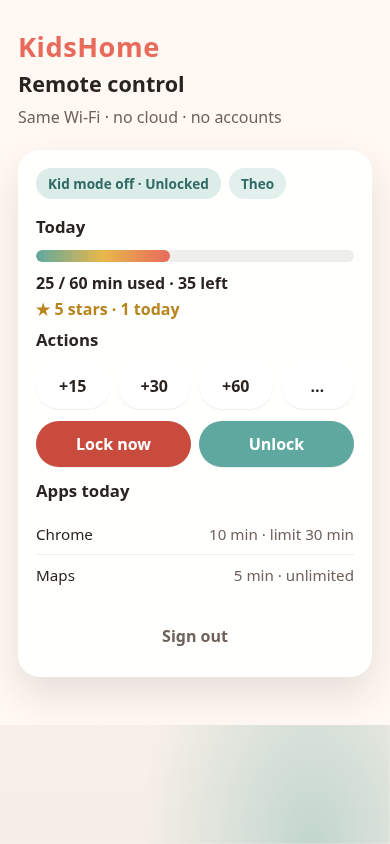
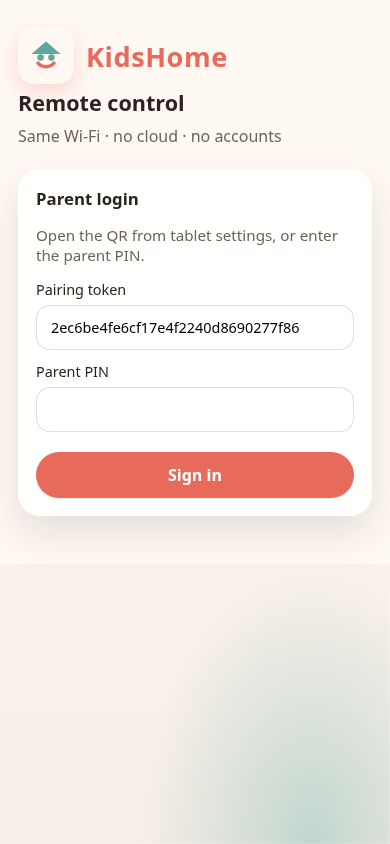
Fix remote bonus time math, brand lock mark, and pt-BR screenshots
Bonus minutes now extend the daily allowance (25/60 +30 → 25/90, 65 left)
with matching progress bar and unit tests. Lock screen uses the KidsHome
house mark; remote page ships mark.svg. Adds pt-BR screenshot set including
kid-mode locked phone page; rebased onto App Studio 42 branding from #6.

diff --git a/app/src/main/assets/remote/app.js b/app/src/main/assets/remote/app.js
@@ -78,7 +78,15 @@
     }
   };
 
+  function queryParam(name) {
+    var m = new RegExp("[?&]" + name + "=([^&]+)").exec(location.search || "");
+    return m ? decodeURIComponent(m[1]) : "";
+  }
+
   function pickLang() {
+    var forced = (queryParam("lang") || "").toLowerCase();
+    if (forced.indexOf("pt") === 0) return "pt-BR";
+    if (forced.indexOf("en") === 0) return "en";
     var lang = (navigator.language || "en").toLowerCase();
     if (lang.indexOf("pt") === 0) return "pt-BR";
     return "en";
@@ -176,6 +184,7 @@
       .replace("%total%", String(state.starsTotal))
       .replace("%today%", String(state.starsToday));
 
+    // dailyLimitMinutes is today's total allowance (base limit + bonus).
     var pct = 0;
     if (state.screenTimeEnabled && state.dailyLimitMinutes > 0) {
       pct = Math.min(100, Math.round((state.usedMinutes / state.dailyLimitMinutes) * 100));

diff --git a/app/src/main/assets/remote/style.css b/app/src/main/assets/remote/style.css
@@ -44,13 +44,25 @@ html, body {
   padding: 28px 18px 48px;
 }
 
+.brand-row {
+  display: flex;
+  align-items: center;
+  gap: 12px;
+  animation: rise 0.7s ease both;
+}
+.brand-logo {
+  width: 56px;
+  height: 56px;
+  border-radius: 16px;
+  box-shadow: 0 8px 20px rgba(232, 106, 91, 0.22);
+  background: #FFF8F3;
+}
 .brand-mark {
   margin: 0;
   font-size: 1.7rem;
   font-weight: 800;
   letter-spacing: 0.02em;
   color: var(--coral);
-  animation: rise 0.7s ease both;
 }
 
 .brand h1 {

diff --git a/app/src/main/assets/remote/index.html b/app/src/main/assets/remote/index.html
@@ -11,7 +11,10 @@
   <div class="bg" aria-hidden="true"></div>
   <main class="shell">
     <header class="brand">
-      <p class="brand-mark">KidsHome</p>
+      <div class="brand-row">
+        <img class="brand-logo" src="/assets/mark.svg" width="56" height="56" alt="KidsHome" />
+        <p class="brand-mark">KidsHome</p>
+      </div>
       <h1 id="title">Remote control</h1>
       <p id="subtitle" class="lede">Same Wi‑Fi · no cloud · no accounts</p>
     </header>

diff --git a/app/src/main/java/io/github/marcelsavegnago/kidshome/RemoteControlBridge.java b/app/src/main/java/io/github/marcelsavegnago/kidshome/RemoteControlBridge.java
@@ -38,12 +38,14 @@ public final class RemoteControlBridge implements RemoteRequestHandler.DeviceBri
 
         long used = Prefs.getUsedMillisToday(app);
         long bonus = Prefs.getBonusMillisToday(app);
-        int limit = Prefs.getDailyLimitMinutes(app);
+        int baseLimit = Prefs.getDailyLimitMinutes(app);
+        long bonusMin = RemoteTimeMath.millisToWholeMinutes(bonus);
+        int effectiveLimit = RemoteTimeMath.effectiveLimitMinutes(baseLimit, bonusMin);
         long remainingMin;
         if (!Prefs.isScreenTimeEnabled(app) || Prefs.isScreenTimeDisabledToday(app)) {
             remainingMin = Long.MAX_VALUE;
         } else {
-            remainingMin = RemoteTimeMath.remainingMinutes(used, bonus, limit);
+            remainingMin = RemoteTimeMath.remainingMinutes(used, bonus, baseLimit);
         }
 
         Map<String, Long> usedMap = Prefs.getAppUsedMillisToday(app);
@@ -80,9 +82,10 @@ public final class RemoteControlBridge implements RemoteRequestHandler.DeviceBri
                 scheduleActive,
                 reasonKey,
                 Prefs.isScreenTimeEnabled(app) && !Prefs.isScreenTimeDisabledToday(app),
-                limit,
-                RemoteTimeMath.effectiveUsedMinutes(used, 0L),
-                bonus / 60_000L,
+                // Parent page shows today's total allowance (base limit + bonus).
+                effectiveLimit,
+                RemoteTimeMath.usedMinutes(used),
+                bonusMin,
                 remainingMin == Long.MAX_VALUE ? -1L : remainingMin,
                 Prefs.getStarsTotal(app),
                 Prefs.getStarsToday(app),

diff --git a/app/src/main/java/io/github/marcelsavegnago/kidshome/RemoteTimeMath.java b/app/src/main/java/io/github/marcelsavegnago/kidshome/RemoteTimeMath.java
@@ -30,13 +30,31 @@ public final class RemoteTimeMath {
     }
 
     /**
-     * Effective used minutes after subtracting bonus (never negative).
+     * Raw used minutes (wall-clock usage today), not reduced by bonus.
      */
-    public static long effectiveUsedMinutes(long usedMillis, long bonusMillis) {
-        long effective = Math.max(0L, usedMillis - Math.max(0L, bonusMillis));
-        return effective / 60_000L;
+    public static long usedMinutes(long usedMillis) {
+        return millisToWholeMinutes(Math.max(0L, usedMillis));
     }
 
+    /**
+     * Today's total allowance shown to parents: configured daily limit plus bonus minutes.
+     * Example: limit 60 + bonus 30 → 90.
+     */
+    public static int effectiveLimitMinutes(int dailyLimitMinutes, long bonusMinutes) {
+        if (dailyLimitMinutes <= 0) {
+            return 0;
+        }
+        long total = (long) dailyLimitMinutes + Math.max(0L, bonusMinutes);
+        if (total > Integer.MAX_VALUE) {
+            return Integer.MAX_VALUE;
+        }
+        return (int) total;
+    }
+
+    /**
+     * Remaining minutes after usage, with bonus extending past the base daily limit.
+     * Example: used 25, bonus 30, limit 60 → 65 left (display total 90).
+     */
     public static long remainingMinutes(long usedMillis, long bonusMillis, int dailyLimitMinutes) {
         if (dailyLimitMinutes <= 0) {
             return 0L;

diff --git a/app/src/main/java/io/github/marcelsavegnago/kidshome/ScreenTimeState.java b/app/src/main/java/io/github/marcelsavegnago/kidshome/ScreenTimeState.java
@@ -41,9 +41,15 @@ public final class ScreenTimeState {
         return nowMinutes >= startMinutes || nowMinutes < endMinutes;
     }
 
+    /**
+     * Remaining allowance for today. Bonus minutes extend the daily limit rather than
+     * being clamped by it — e.g. limit 60, used 25, bonus 30 → 65 remaining (not 60).
+     */
     public static long remainingMillis(long usedMillis, long bonusMillis, long dailyLimitMillis) {
-        long effectiveUsed = Math.max(0L, usedMillis - bonusMillis);
-        return Math.max(0L, dailyLimitMillis - effectiveUsed);
+        long used = Math.max(0L, usedMillis);
+        long bonus = Math.max(0L, bonusMillis);
+        long limit = Math.max(0L, dailyLimitMillis);
+        return Math.max(0L, limit - used + bonus);
     }
 
     public static boolean isDailyLimitReached(long usedMillis, long bonusMillis, long dailyLimitMillis) {

diff --git a/app/src/test/java/io/github/marcelsavegnago/kidshome/RemoteTimeMathTest.java b/app/src/test/java/io/github/marcelsavegnago/kidshome/RemoteTimeMathTest.java
@@ -20,7 +20,17 @@ public class RemoteTimeMathTest {
         long used = 50L * 60_000L;
         long bonus = 20L * 60_000L;
         assertEquals(30L, RemoteTimeMath.remainingMinutes(used, bonus, 60));
-        assertEquals(50L, RemoteTimeMath.effectiveUsedMinutes(used, 0L));
+        assertEquals(50L, RemoteTimeMath.usedMinutes(used));
+    }
+
+    @Test
+    public void bonusExtendsDisplayedTotalAndRemaining() {
+        // Matches remote screenshots: 25 used / 60 base, +30 → 25/90 with 65 left.
+        long used = 25L * 60_000L;
+        long bonus = 30L * 60_000L;
+        assertEquals(65L, RemoteTimeMath.remainingMinutes(used, bonus, 60));
+        assertEquals(90, RemoteTimeMath.effectiveLimitMinutes(60, 30L));
+        assertEquals(25L, RemoteTimeMath.usedMinutes(used));
     }
 
     @Test

diff --git a/app/src/main/java/io/github/marcelsavegnago/kidshome/ScreenTimeLockActivity.java b/app/src/main/java/io/github/marcelsavegnago/kidshome/ScreenTimeLockActivity.java
@@ -63,7 +63,7 @@ public class ScreenTimeLockActivity extends AppCompatActivity {
         } else if (reason == ScreenTimeTracker.BlockReason.REMOTE) {
             title.setText(R.string.remote_lock_title);
             message.setText(R.string.remote_lock_message);
-            illustration.setImageResource(R.drawable.illust_time_up);
+            illustration.setImageResource(R.drawable.illust_remote_lock);
             root.setBackgroundColor(ContextCompat.getColor(this, R.color.lock_bg_timeup));
             getWindow().setStatusBarColor(ContextCompat.getColor(this, R.color.lock_bg_timeup));
             getWindow().setNavigationBarColor(ContextCompat.getColor(this, R.color.lock_bg_timeup));

diff --git a/app/src/test/java/io/github/marcelsavegnago/kidshome/ScreenTimeStateTest.java b/app/src/test/java/io/github/marcelsavegnago/kidshome/ScreenTimeStateTest.java
@@ -29,4 +29,12 @@ public class ScreenTimeStateTest {
         assertTrue(ScreenTimeState.isDailyLimitReached(70 * 60_000L, 0, 60 * 60_000L));
         assertFalse(ScreenTimeState.isDailyLimitReached(70 * 60_000L, 20 * 60_000L, 60 * 60_000L));
     }
+
+    @Test
+    public void bonusExtendsPastDailyLimitWhenUnused() {
+        // limit 60, used 25, bonus 30 → 65 left (not capped at 60).
+        long rem = ScreenTimeState.remainingMillis(25 * 60_000L, 30 * 60_000L, 60 * 60_000L);
+        assertEquals(65 * 60_000L, rem);
+        assertFalse(ScreenTimeState.isDailyLimitReached(25 * 60_000L, 30 * 60_000L, 60 * 60_000L));
+    }
 }

diff --git a/app/src/main/java/io/github/marcelsavegnago/kidshome/RuleEngine.java b/app/src/main/java/io/github/marcelsavegnago/kidshome/RuleEngine.java
@@ -112,8 +112,8 @@ public final class RuleEngine {
             return Long.MAX_VALUE;
         }
         long limitMillis = limitMinutes * 60L * 1000L;
-        long effectiveUsed = Math.max(0L, usedMillis - Math.max(0L, bonusMillis));
-        return Math.max(0L, limitMillis - effectiveUsed);
+        // Bonus extends the per-app allowance (same rule as the daily total limit).
+        return Math.max(0L, limitMillis - Math.max(0L, usedMillis) + Math.max(0L, bonusMillis));
     }
 
     public static boolean isAppLimitReached(long usedMillis, long bonusMillis, int limitMinutes) {

diff --git a/README.md b/README.md
@@ -62,6 +62,11 @@ Real captures from an Android tablet emulator (1280×800) with demo child name *
 | ![Remote settings](docs/screenshots/1.5.0/01-remote-settings-qr.png) | ![Remote page](docs/screenshots/1.5.0/02-remote-phone-page.png) | ![After add](docs/screenshots/1.5.0/03-remote-after-add-time.png) | ![Remote lock](docs/screenshots/1.5.0/04-remote-lock-tablet.png) |
 | URL + QR in parent settings | Usage & state on phone | Time added remotely | Lock now on tablet |
 
+| Remote settings (pt-BR) | Phone page (pt-BR) | Lock screen (pt-BR) | Phone · kid mode locked (pt-BR) |
+|:---:|:---:|:---:|:---:|
+| ![Remote settings pt-BR](docs/screenshots/1.5.0/05-pt-remote-settings-qr.png) | ![Remote page pt-BR](docs/screenshots/1.5.0/06-pt-remote-phone-page.png) | ![Remote lock pt-BR](docs/screenshots/1.5.0/07-pt-remote-lock-tablet.png) | ![Phone locked pt-BR](docs/screenshots/1.5.0/08-pt-remote-phone-locked.png) |
+| Settings + QR | Usage & state | Tablet lock | Kid mode on · remote lock |
+
 ## Features
 
 - **Three enforcement modes** (auto-detected, with manual override):

diff --git a/README.pt-BR.md b/README.pt-BR.md
@@ -82,6 +82,11 @@ Desligado por padrão. No hub dos responsáveis abra **Controle remoto**, ative 
 |:---:|:---:|:---:|:---:|
 | ![Remote settings](docs/screenshots/1.5.0/01-remote-settings-qr.png) | ![Remote page](docs/screenshots/1.5.0/02-remote-phone-page.png) | ![After add](docs/screenshots/1.5.0/03-remote-after-add-time.png) | ![Remote lock](docs/screenshots/1.5.0/04-remote-lock-tablet.png) |
 
+| Configurações (pt-BR) | Página no celular (pt-BR) | Bloqueio no tablet (pt-BR) | Celular · modo criança bloqueado |
+|:---:|:---:|:---:|:---:|
+| ![Remote settings pt-BR](docs/screenshots/1.5.0/05-pt-remote-settings-qr.png) | ![Remote page pt-BR](docs/screenshots/1.5.0/06-pt-remote-phone-page.png) | ![Remote lock pt-BR](docs/screenshots/1.5.0/07-pt-remote-lock-tablet.png) | ![Phone locked pt-BR](docs/screenshots/1.5.0/08-pt-remote-phone-locked.png) |
+| Configurações + QR | Uso e estado | Bloqueio remoto | Modo criança ligado · bloqueio remoto |
+
 ## Dispositivos suportados
 
 | Modo | Melhor para | Como funciona |
